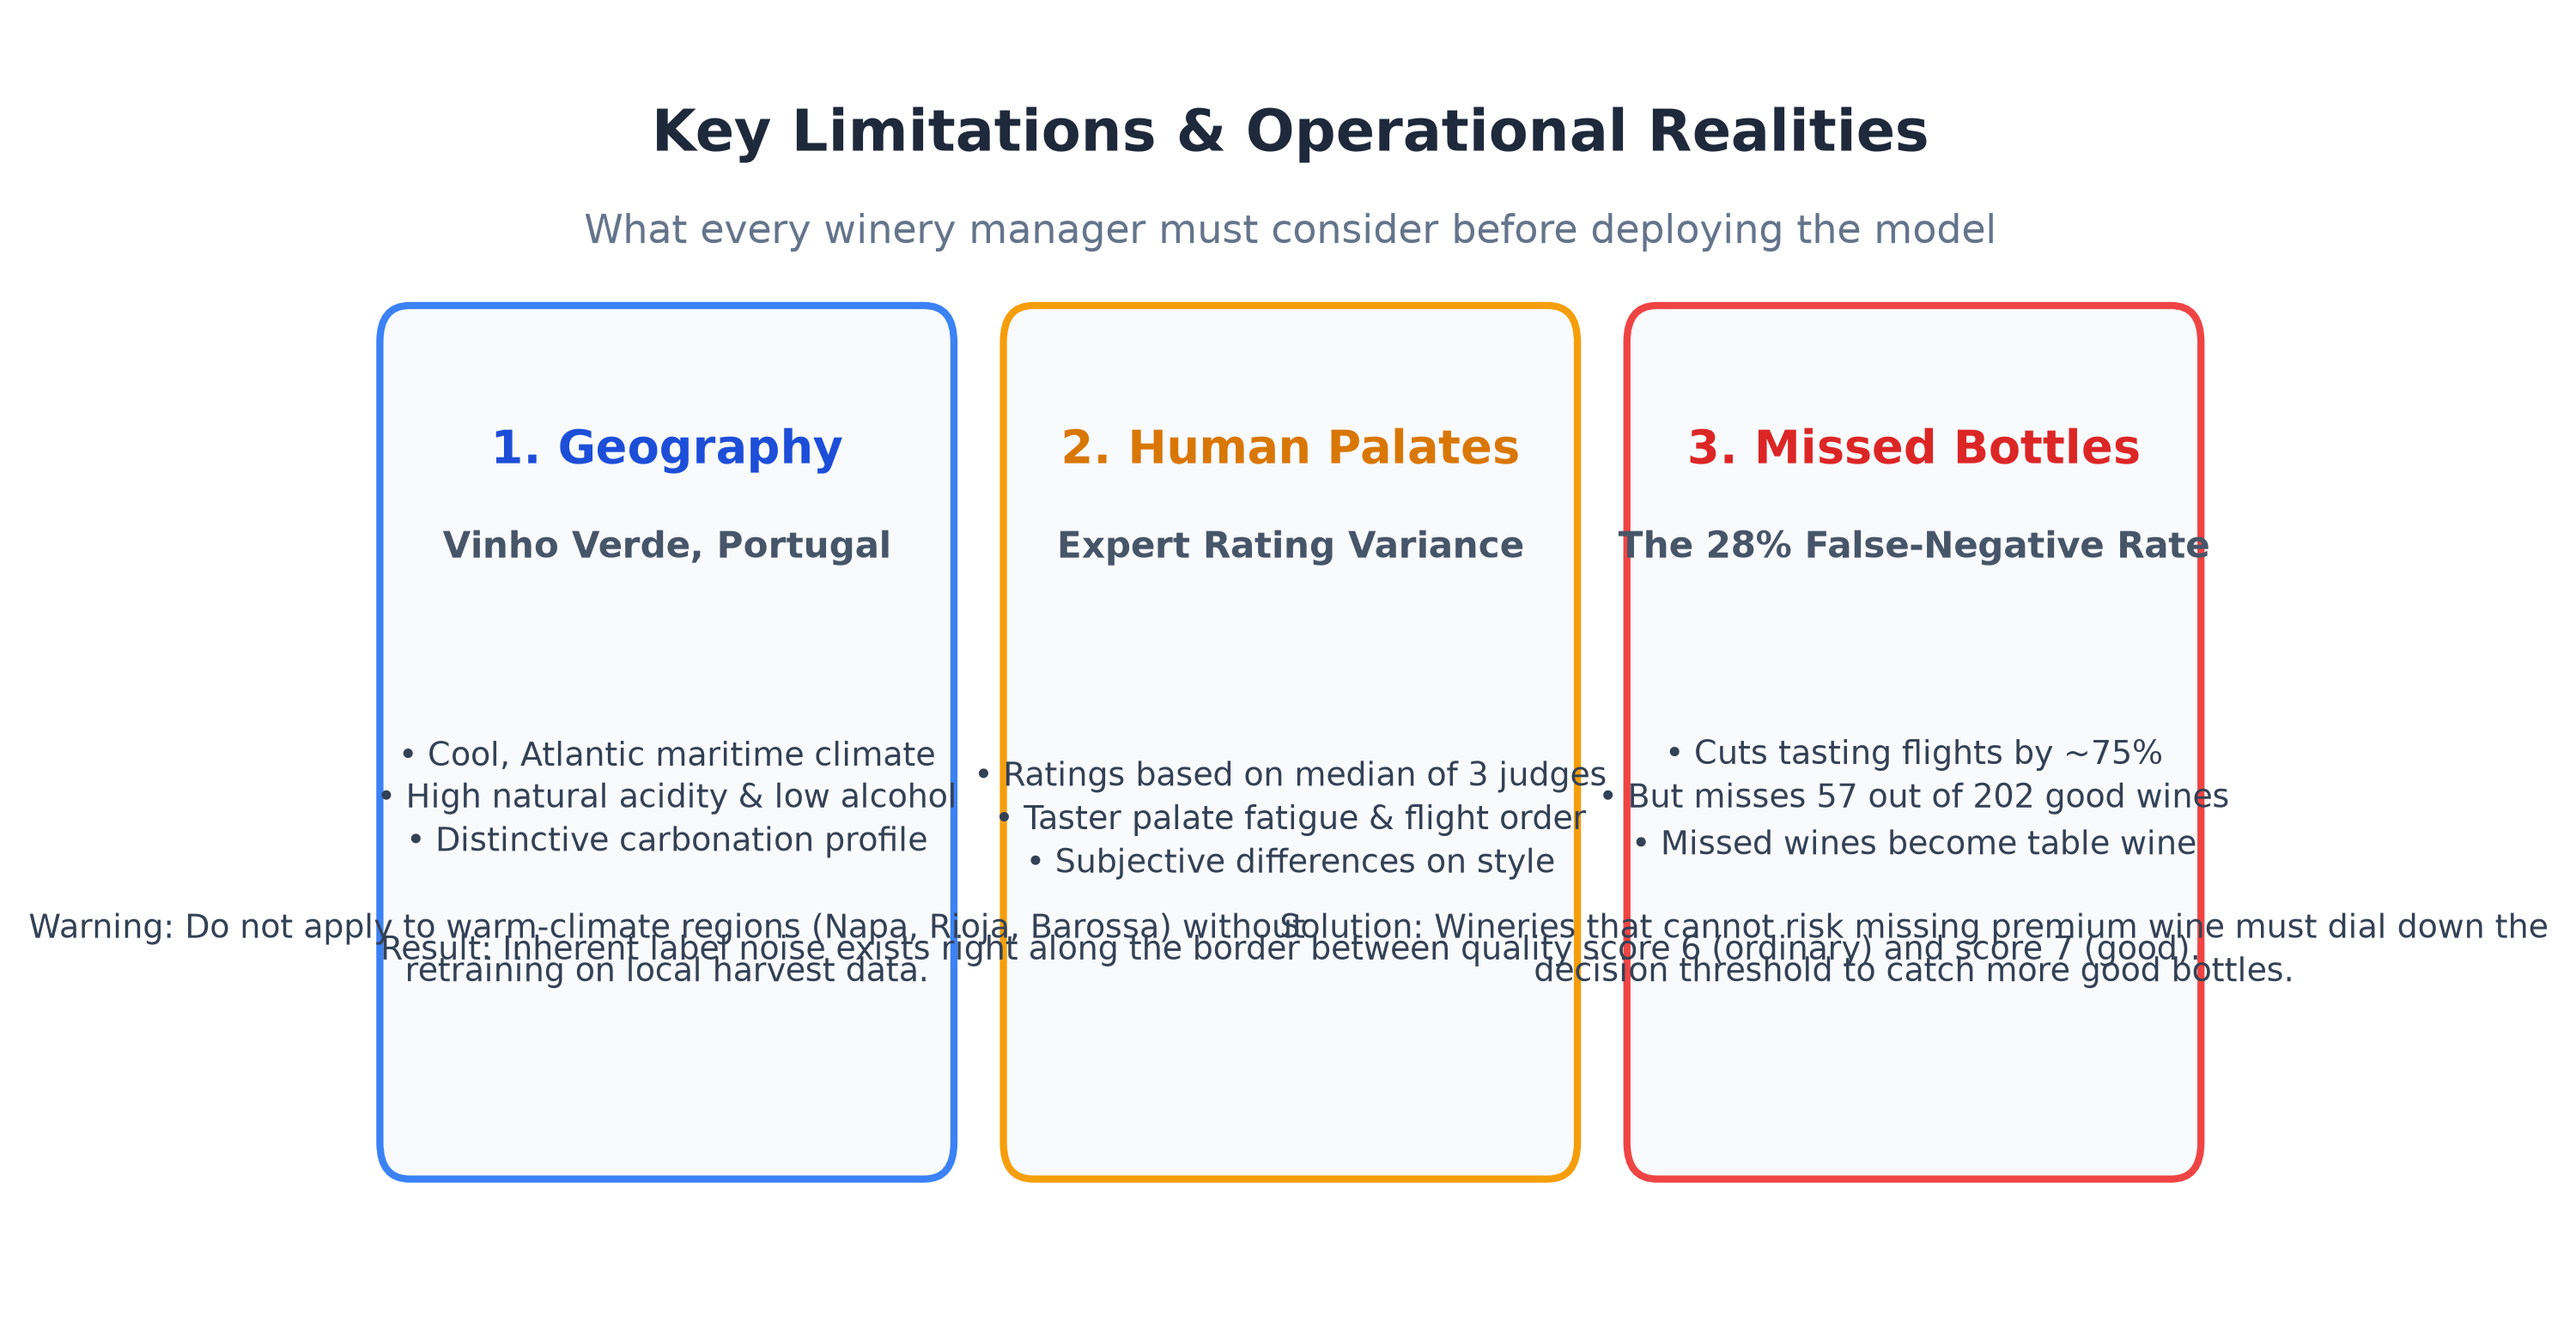
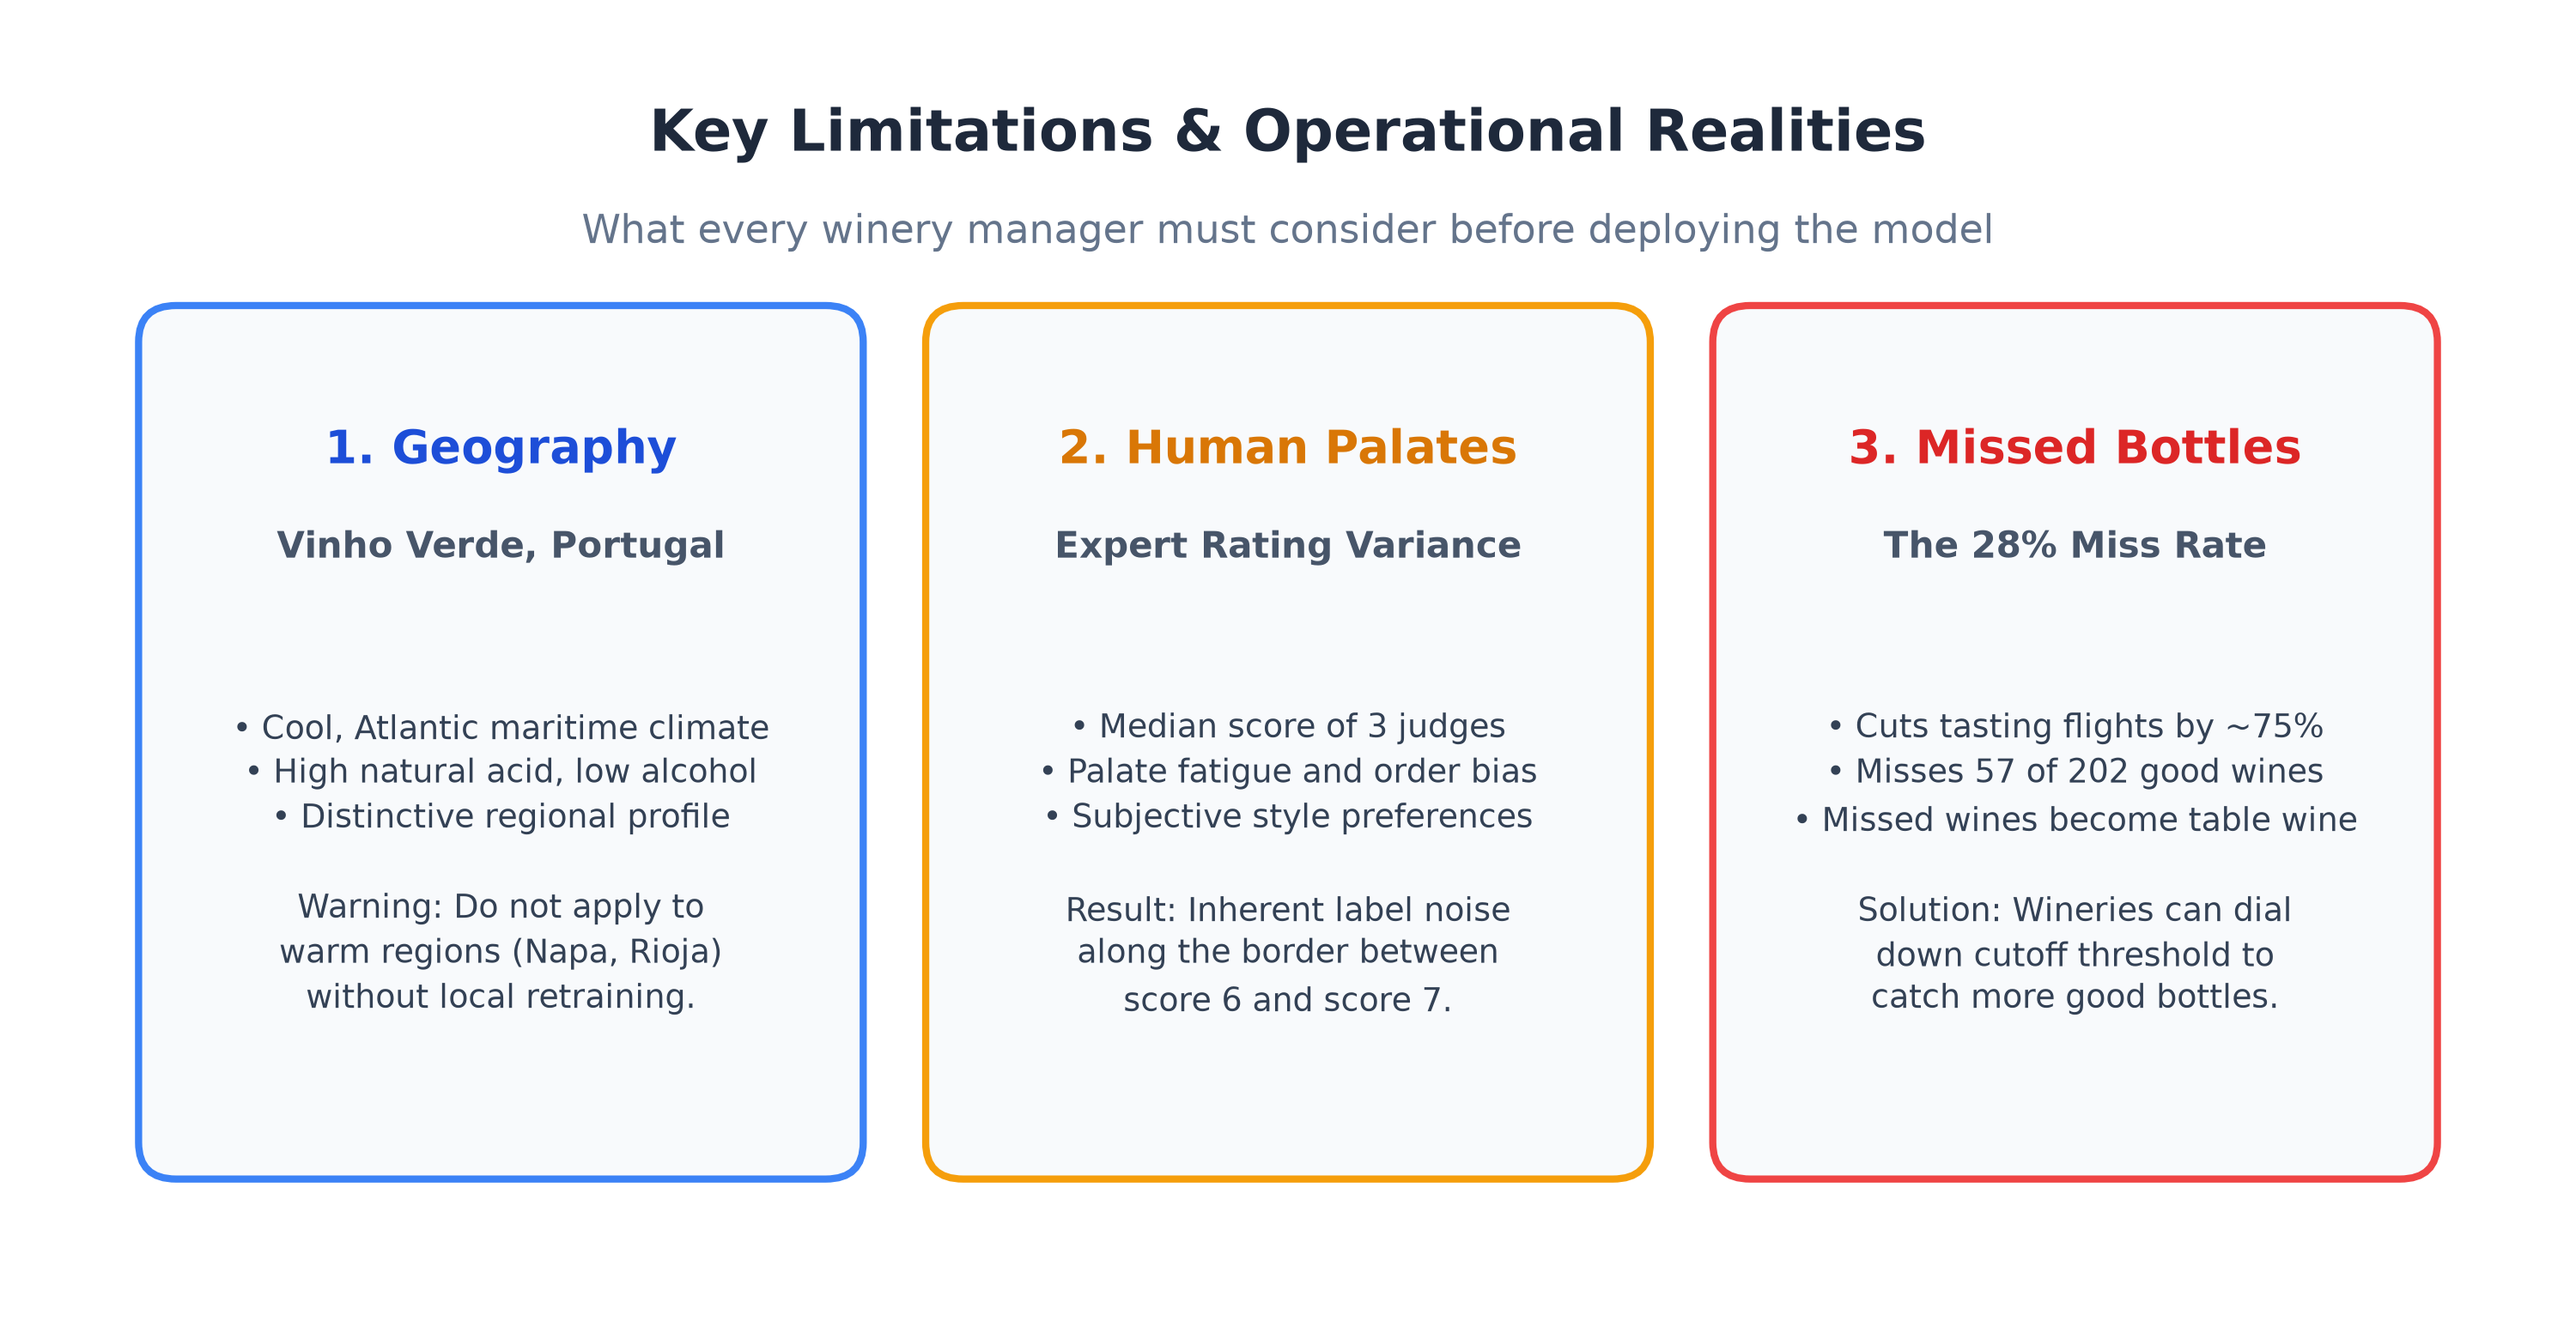
Fix text wrapping and alignment on Slide 11 limitations card graphic

diff --git a/presentation_assets/final_presentation_walkthrough.html b/presentation_assets/final_presentation_walkthrough.html
@@ -443,18 +443,18 @@
             </div>
 
             <!-- Bullet Points on Slide -->
-            <div class="space-y-1.5 text-xs bg-slate-950/60 p-3 rounded-xl border border-slate-800">
+            <div class="space-y-2 text-xs bg-slate-950/60 p-3 rounded-xl border border-slate-800">
               <div class="flex items-start gap-2">
                 <span class="text-sky-400 font-bold">•</span>
-                <span class="text-slate-200"><strong>Compared 3 approaches:</strong> Logistic Regression (baseline), Random Forest, and Gradient Boosting.</span>
+                <span class="text-slate-200"><strong>Compared 3 approaches:</strong> Tested three different computer prediction methods to find the strongest performer.</span>
               </div>
               <div class="flex items-start gap-2">
                 <span class="text-sky-400 font-bold">•</span>
-                <span class="text-slate-200"><strong>Rigorous testing:</strong> 10-fold cross-validation + held-out vault of 1,064 unseen test wines.</span>
+                <span class="text-slate-200"><strong>Tested on 1,064 unseen wines:</strong> Evaluated on brand-new bottles the model had never seen before.</span>
               </div>
               <div class="flex items-start gap-2">
                 <span class="text-sky-400 font-bold">•</span>
-                <span class="text-slate-200"><strong>The Winner: Random Forest</strong> — significantly outperformed baseline (p = 0.045) and captured non-linear interactions.</span>
+                <span class="text-slate-200"><strong>The Winner: A "Random Forest"</strong> = 300 decision rules that vote together like an expert panel.</span>
               </div>
             </div>
             <div class="text-[11px] text-slate-500 italic">Visual: Simple tree & voting diagram (slide_07_model_trees.png)</div>
@@ -462,11 +462,11 @@
         `,
         script: `
           <p>"Thanks, Aren. Once we understood the chemistry, our challenge was: can a computer actually learn these patterns to separate great wines from ordinary ones?"</p>
-          <p>"To find out, we compared three machine learning approaches using 10-fold cross-validation, and locked away a test set of 1,064 wines that the computer never saw during training."</p>
-          <p>"Our clear winner was a <strong>Random Forest</strong>. You can think of a Random Forest like a tasting committee of 300 independent judges. Each tree looks at a random subset of lab numbers, makes a decision, and then they all cast a vote. If the majority votes 'good,' the wine gets flagged."</p>
-          <p>"This committee approach prevents any single quirky lab test or outlier from throwing off the final verdict."</p>
+          <p>"To find out, we tested three different computer methods on 1,064 wines the system had never seen before—giving us an honest check of real-world accuracy."</p>
+          <p>"Our clear winner was an approach called a <strong>Random Forest</strong>. Think of it like a panel of 300 independent wine judges on a computer. Each tree looks at a different combination of lab numbers, makes a decision, and then they all cast a vote. If the majority votes 'good,' the wine gets flagged for human tasting."</p>
+          <p>"Having 300 independent rules vote together prevents any single weird lab reading from throwing off the final verdict."</p>
         `,
-        tips: "💡 <strong>Delivery Coaching for Anthony:</strong> Use the 'committee of 300 judges' analogy. It immediately demystifies machine learning for general audiences."
+        tips: "💡 <strong>Delivery Coaching for Anthony:</strong> Use the 'panel of 300 judges' analogy. It immediately clicks for winery executives and business leaders."
       },
       {
         id: 8,

diff --git a/presentation_assets/generate_presentation_visuals.py b/presentation_assets/generate_presentation_visuals.py
@@ -220,12 +220,12 @@ def create_slide_11_visual():
     ax.text(1.85, 3.1, "Vinho Verde, Portugal", ha='center', va='center', fontsize=10, fontweight='semibold', color='#475569')
     
     text1 = ("• Cool, Atlantic maritime climate\n"
-             "• High natural acidity & low alcohol\n"
-             "• Distinctive carbonation profile\n\n"
-             "Warning: Do not apply to warm-climate "
-             "regions (Napa, Rioja, Barossa) without "
-             "retraining on local harvest data.")
-    ax.text(1.85, 1.8, text1, ha='center', va='center', fontsize=9, color='#334155', linespacing=1.35, wrap=True)
+             "• High natural acid, low alcohol\n"
+             "• Distinctive regional profile\n\n"
+             "Warning: Do not apply to\n"
+             "warm regions (Napa, Rioja)\n"
+             "without local retraining.")
+    ax.text(1.85, 1.8, text1, ha='center', va='center', fontsize=9, color='#334155', linespacing=1.4)
 
     # Card 2: Subjective Palates
     c2 = patches.FancyBboxPatch((3.65, 0.6), 2.7, 3.4, boxstyle="round,pad=0.1,rounding_size=0.15", ec="#f59e0b", fc="#f8fafc", lw=2)
@@ -233,31 +233,31 @@ def create_slide_11_visual():
     ax.text(5.0, 3.5, "2. Human Palates", ha='center', va='center', fontsize=13, fontweight='bold', color='#d97706')
     ax.text(5.0, 3.1, "Expert Rating Variance", ha='center', va='center', fontsize=10, fontweight='semibold', color='#475569')
     
-    text2 = ("• Ratings based on median of 3 judges\n"
-             "• Taster palate fatigue & flight order\n"
-             "• Subjective differences on style\n\n"
-             "Result: Inherent label noise exists right "
-             "along the border between quality score 6 "
-             "(ordinary) and score 7 (good).")
-    ax.text(5.0, 1.8, text2, ha='center', va='center', fontsize=9, color='#334155', linespacing=1.35, wrap=True)
+    text2 = ("• Median score of 3 judges\n"
+             "• Palate fatigue and order bias\n"
+             "• Subjective style preferences\n\n"
+             "Result: Inherent label noise\n"
+             "along the border between\n"
+             "score 6 and score 7.")
+    ax.text(5.0, 1.8, text2, ha='center', va='center', fontsize=9, color='#334155', linespacing=1.4)
 
     # Card 3: Operational Trade-off
     c3 = patches.FancyBboxPatch((6.8, 0.6), 2.7, 3.4, boxstyle="round,pad=0.1,rounding_size=0.15", ec="#ef4444", fc="#f8fafc", lw=2)
     ax.add_patch(c3)
     ax.text(8.15, 3.5, "3. Missed Bottles", ha='center', va='center', fontsize=13, fontweight='bold', color='#dc2626')
-    ax.text(8.15, 3.1, "The 28% False-Negative Rate", ha='center', va='center', fontsize=10, fontweight='semibold', color='#475569')
+    ax.text(8.15, 3.1, "The 28% Miss Rate", ha='center', va='center', fontsize=10, fontweight='semibold', color='#475569')
     
     text3 = ("• Cuts tasting flights by ~75%\n"
-             "• But misses 57 out of 202 good wines\n"
+             "• Misses 57 of 202 good wines\n"
              "• Missed wines become table wine\n\n"
-             "Solution: Wineries that cannot risk missing "
-             "premium wine must dial down the decision "
-             "threshold to catch more good bottles.")
-    ax.text(8.15, 1.8, text3, ha='center', va='center', fontsize=9, color='#334155', linespacing=1.35, wrap=True)
+             "Solution: Wineries can dial\n"
+             "down cutoff threshold to\n"
+             "catch more good bottles.")
+    ax.text(8.15, 1.8, text3, ha='center', va='center', fontsize=9, color='#334155', linespacing=1.4)
 
     plt.tight_layout()
     plt.savefig("/Users/bloodsailadmiralamunra/Documents/GitHub/AAI150/presentation_assets/slide_11_limitations_cards.png")
-    plt.savefig("/Users/bloodsailadmiralamunra/Documents/GitHub/MAAI-USD-ASC/Final/presentation_assets/slide_11_limitations_cards.png")
+    plt.savefig("/Users/bloodsailadmiralamunra/.gemini/antigravity/brain/f454c265-efe2-4773-bad4-b99fadf8bef6/slide_11_limitations_cards.png")
     plt.close()
     print("Slide 11 visual created.")
 
